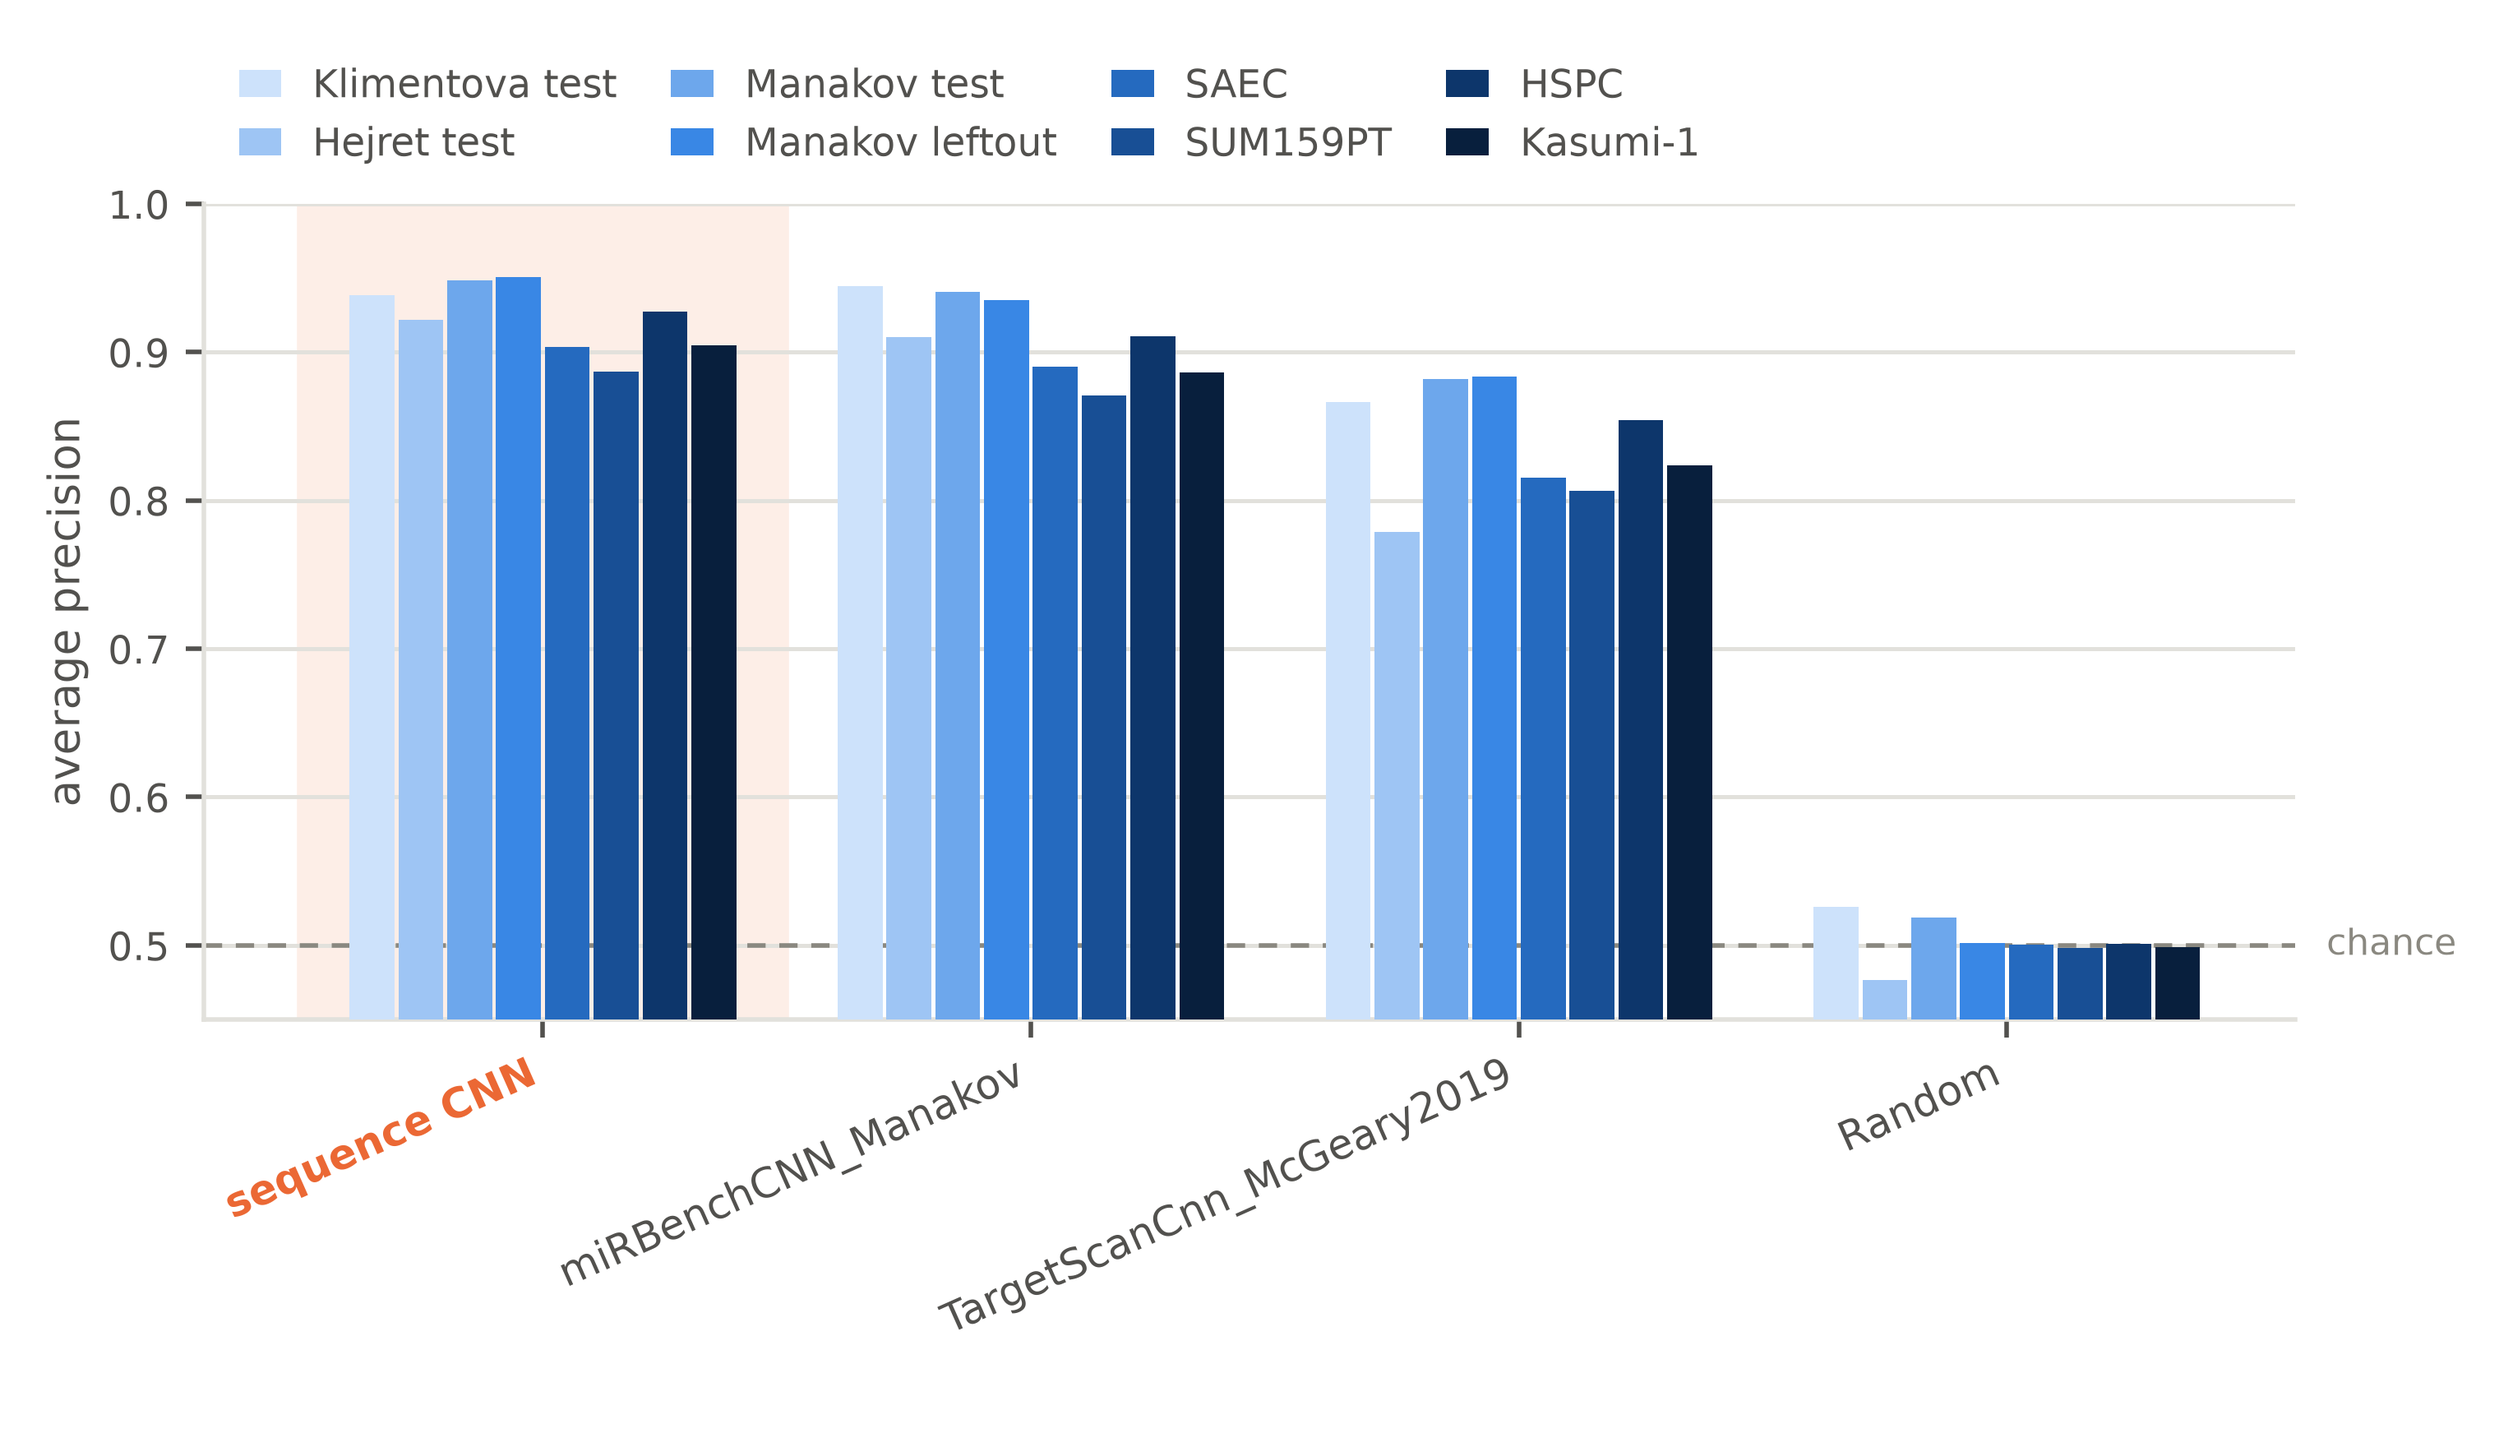
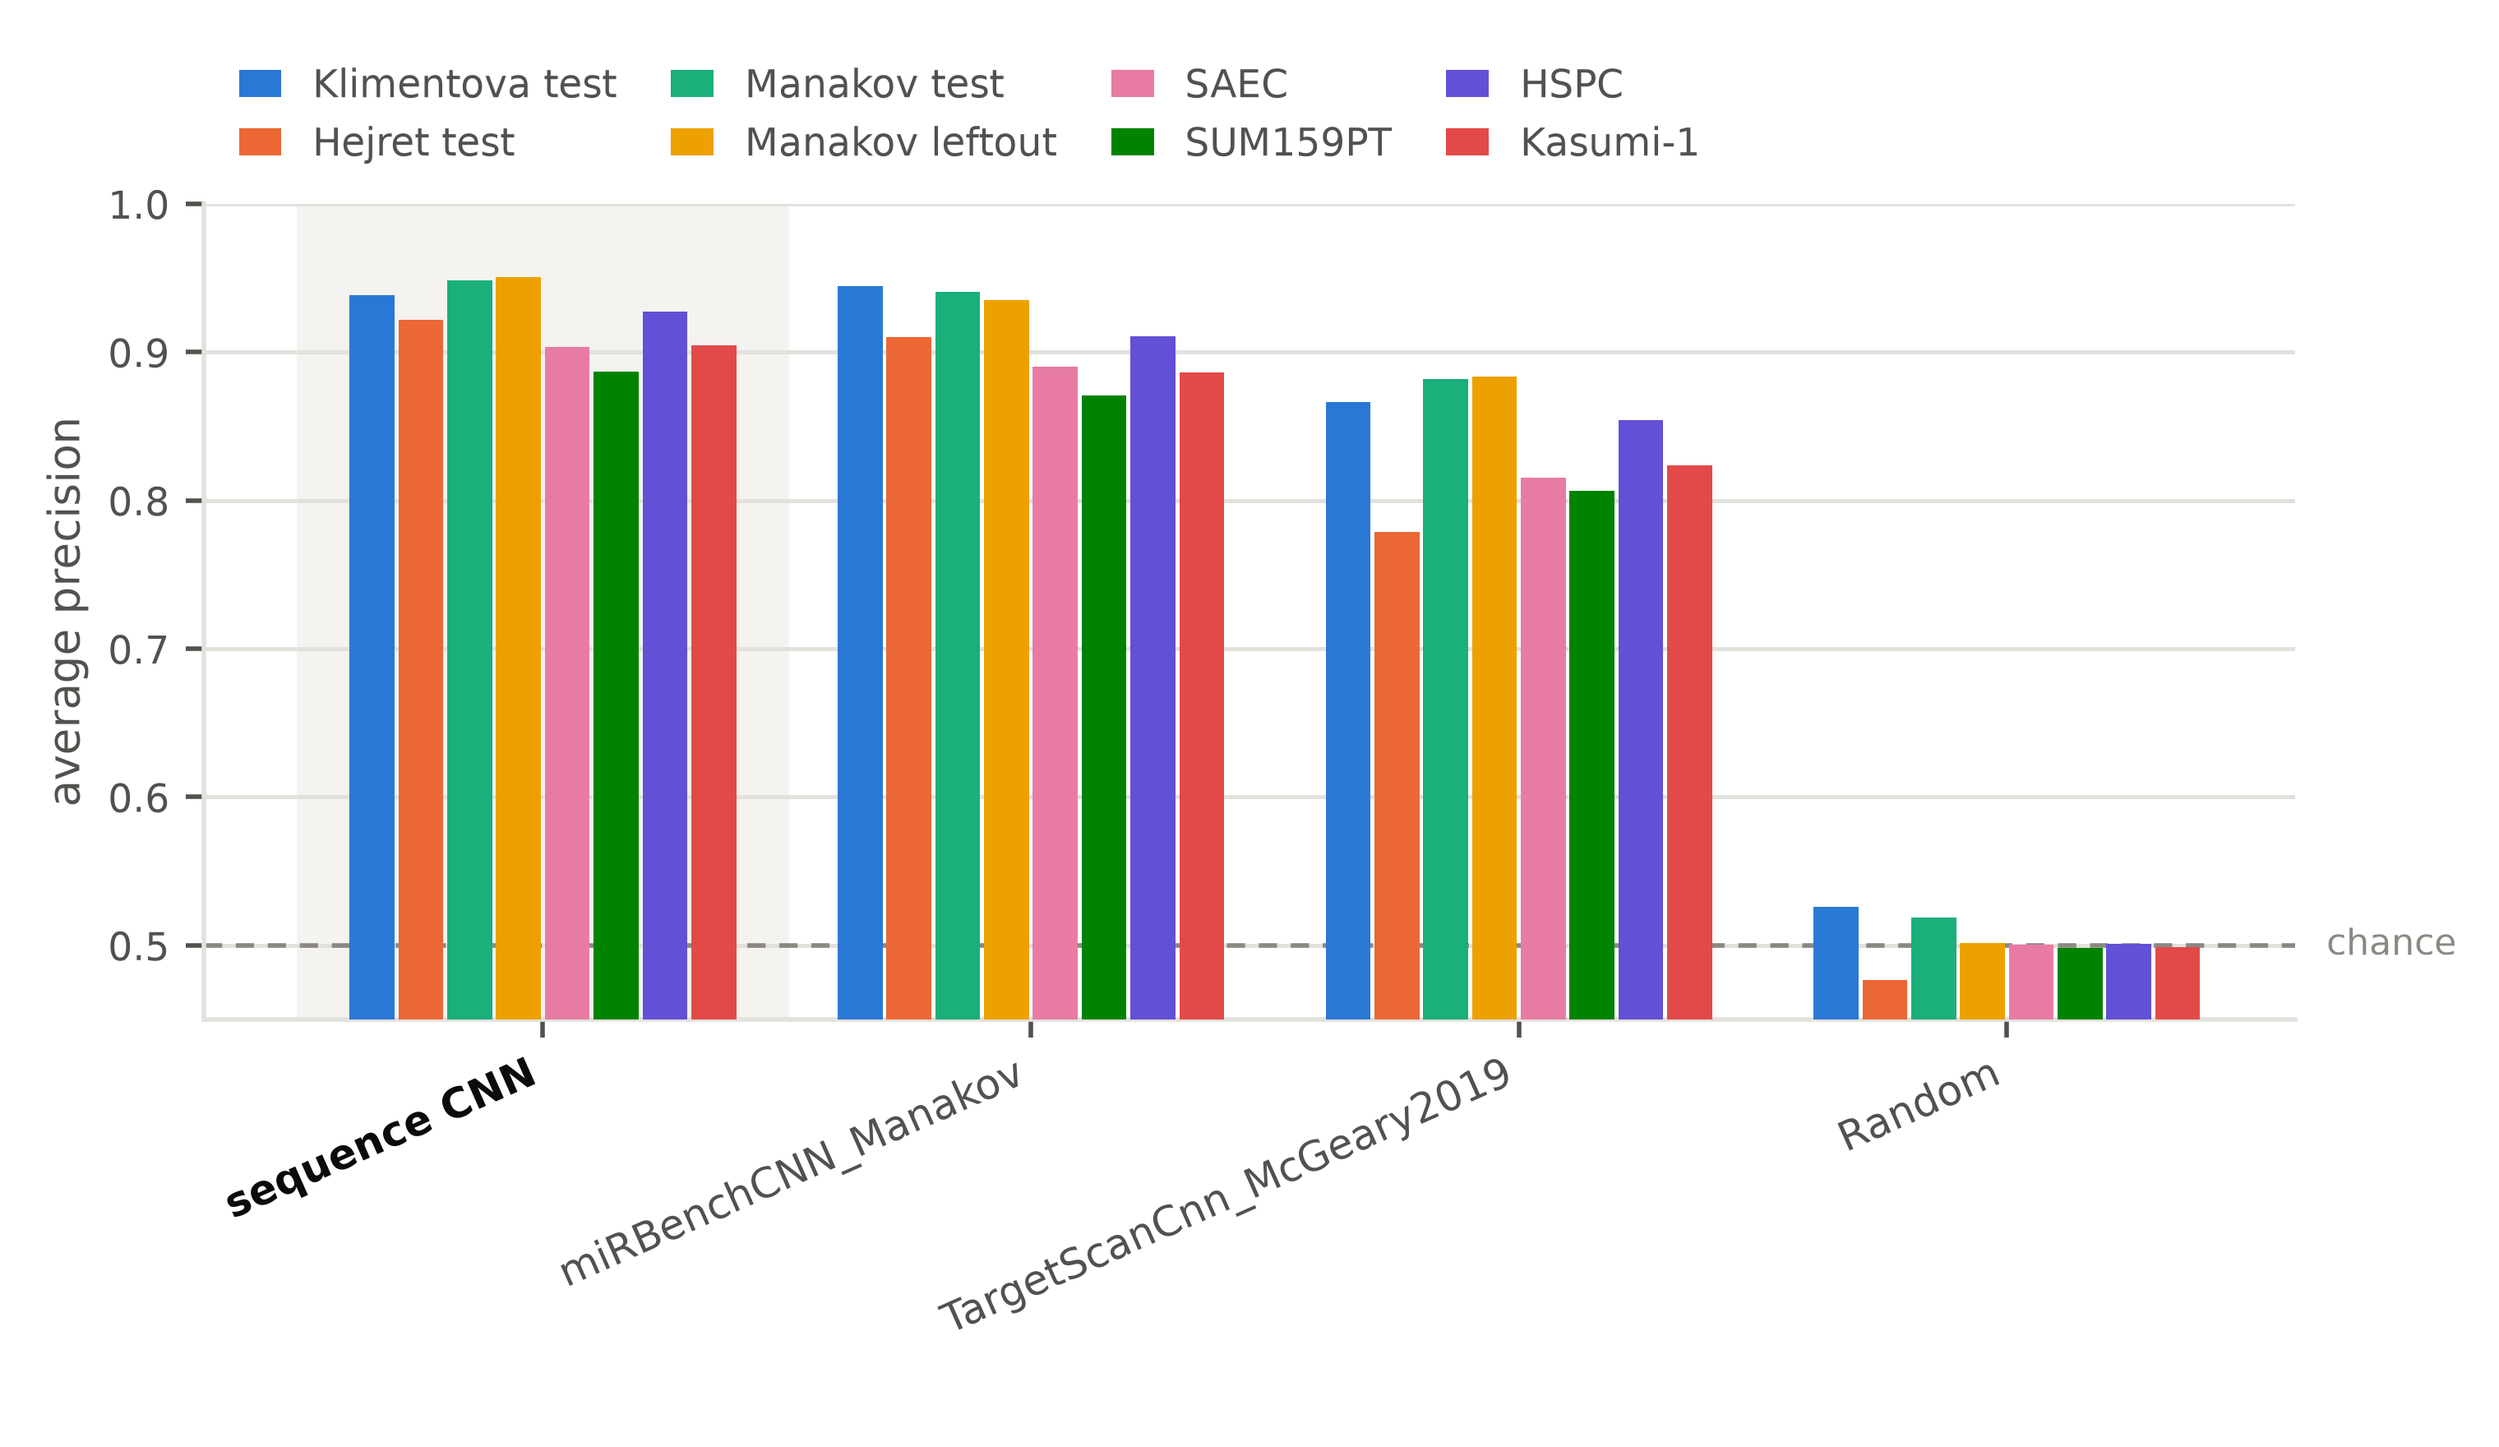
minor changes

diff --git a/src/figures/panel_benchmark_recentre_noart.py b/src/figures/panel_benchmark_recentre_noart.py
@@ -51,7 +51,7 @@ SETS = {
     "gse180129_HSPC": "HSPC",
     "gse180129_Kasumi1": "Kasumi-1",
 }
-TONES = ps.BLUE_RAMP[1:] + ["#081f3d"]
+TONES = ps.CATEGORICAL  # one hue per test set, fixed order
 
 
 def measured() -> dict[str, tuple[float, ...]]:
@@ -103,7 +103,7 @@ def main() -> None:
         ax.bar(xs, [data[k][j] for k in order], width=bw * 0.92, color=tone, edgecolor="none", zorder=3, label=lab)
     for i, k in enumerate(order):
         if k == OURS:
-            ax.axvspan(i - 0.5, i + 0.5, color=ps.GLUON_FILL, zorder=1)
+            ax.axvspan(i - 0.5, i + 0.5, color=ps.FILL, zorder=1)
 
     ax.axhline(0.5, color=ps.MUTED, lw=1.0, ls=(0, (4, 3)), zorder=2)
     ax.text(1.015, 0.5, "chance", transform=ax.get_yaxis_transform(), ha="left", va="center", fontsize=8,
@@ -113,7 +113,7 @@ def main() -> None:
     for t, k in zip(ax.get_xticklabels(), order):
         if k == OURS:
             t.set_fontweight("bold")
-            t.set_color(ps.ACCENT_GLUON)
+            t.set_color(ps.INK)
     lo = min(min(v) for v in data.values())
     ax.set_ylim(min(0.45, lo - 0.02), 1.0)
     ax.set_ylabel("average precision")

diff --git a/src/figures/poster_style.py b/src/figures/poster_style.py
@@ -38,6 +38,11 @@ DEEMPH_FILL = "#f0efec"
 BLUE_RAMP = ["#ffffff", "#cde2fb", "#9ec5f4", "#6da7ec", "#3987e5",
              "#256abf", "#184f95", "#0d366b"]
 
+# Full categorical palette, fixed order (slots 1-2 = the two accents above). Validated on the light surface
+# for adjacent pairs (bars, stacks, lines): worst CVD dE 9.1, worst normal-vision dE 19.6. Not for
+# all-pairs use (scatter) with all eight.
+CATEGORICAL = ["#2a78d6", "#eb6834", "#1baf7a", "#eda100", "#e87ba4", "#008300", "#6250d6", "#e34948"]
+
 
 def apply(base: float = 11.0) -> None:
     """Install the poster rcParams. `base` is the body font size in points."""
